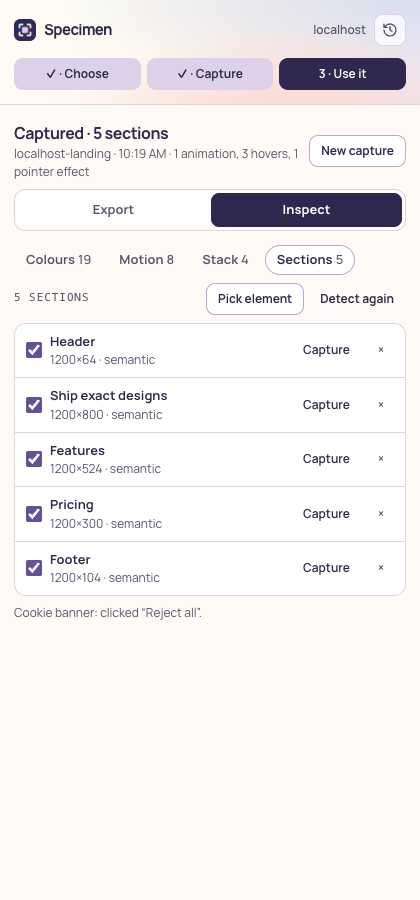
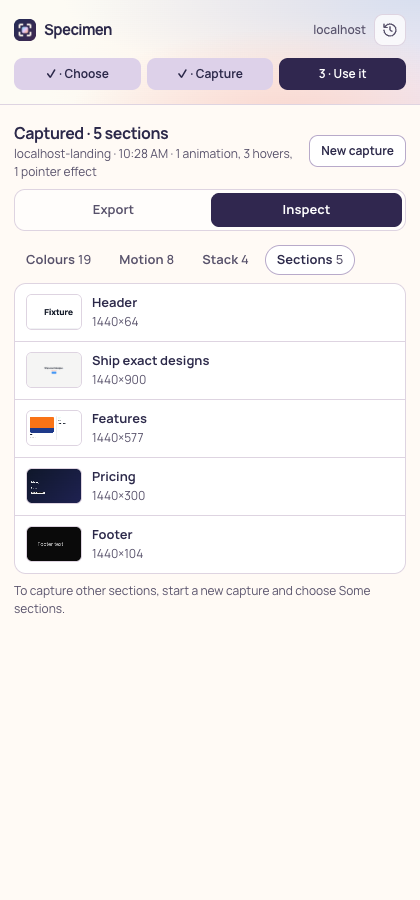
Scope Copy everything to the chosen sections; list a capture's own sections
Copy everything for a code agent now follows Which part, like the prompt and
folder exports. The Sections tab of a capture lists the sections that capture
holds instead of the live page's scan.

diff --git a/apps/extension/lib/outputs.ts b/apps/extension/lib/outputs.ts
@@ -355,17 +355,20 @@ export async function writeToFolder(files: Record<string, Uint8Array>, folder = 
 // ---------------------------------------------------------------------------------------------
 // Copy as text
 
-/** The motion of the captured sections as markdown: cues per section, then the rebuilt effect code. */
-export function motionMarkdown(result: CaptureResult): string {
+/** The captured sections, or only `ids` of them. */
+const chosenSections = (result: CaptureResult, ids?: string[]) => capturedSections(result).filter((s) => !ids || ids.includes(s.id));
+
+/** The motion of the captured sections (or `ids`) as markdown: cues per section, then the rebuilt effect code. */
+export function motionMarkdown(result: CaptureResult, ids?: string[]): string {
   const parts: string[] = ['## Motion', ''];
-  for (const s of capturedSections(result)) {
+  for (const s of chosenSections(result, ids)) {
     const cues = motionCues(result, s.id);
     if (!cues.length) continue;
     parts.push(`### ${s.name}`, '', ...cues.map((c) => `- **${c.kind}** \`${c.target}\`: ${c.description}`), '');
   }
   if (parts.length === 2) parts.push(result.manifest.motion ? 'No motion found in these sections.' : 'Motion was not recorded for this capture.', '');
   const code = Object.keys(result.files)
-    .filter((p) => p.startsWith('exports/code/') && /\.(css|gsap\.js|motion\.tsx)$/.test(p))
+    .filter((p) => p.startsWith('exports/code/') && /\.(css|gsap\.js|motion\.tsx)$/.test(p) && (!ids || ids.some((id) => p.startsWith(`exports/code/${id}.`))))
     .sort();
   if (code.length) {
     parts.push('## Effect code', '');
@@ -385,19 +388,19 @@ export function stackMarkdown(stack: StackItem[]): string {
  * DESIGN.md (palette, type, spacing, every section and its motion cues) followed by the stack and
  * the rebuilt effect code. Screenshots and clips stay files: the clipboard carries text.
  */
-export async function everythingMarkdown(result: CaptureResult, stack: StackItem[]): Promise<string> {
-  const spec = await agentSpec(result, stack);
-  return [spec.markdown.trim(), '', stackMarkdown(stack), motionMarkdown(result), shaderMarkdown(result)].join('\n');
+export async function everythingMarkdown(result: CaptureResult, stack: StackItem[], ids?: string[]): Promise<string> {
+  const spec = await agentSpec(result, stack, ids);
+  return [spec.markdown.trim(), '', stackMarkdown(stack), motionMarkdown(result, ids), shaderMarkdown(result, ids)].join('\n');
 }
 
 /** Pasted shader code stops here; the rest is in the saved spec folder. */
 const MAX_PASTED_SHADER_CHARS = 300_000;
 
-/** The captured sections' shader code as markdown code blocks. */
-export function shaderMarkdown(result: CaptureResult): string {
+/** The captured sections' (or `ids`') shader code as markdown code blocks. */
+export function shaderMarkdown(result: CaptureResult, ids?: string[]): string {
   const parts: string[] = [];
   let budget = MAX_PASTED_SHADER_CHARS;
-  for (const s of capturedSections(result)) {
+  for (const s of chosenSections(result, ids)) {
     for (const sh of sectionShaders(result, s.id).shaders) {
       const code = strFromU8(result.files[sh.source]);
       if (code.length > budget) {

diff --git a/apps/extension/entrypoints/sidepanel/App.tsx b/apps/extension/entrypoints/sidepanel/App.tsx
@@ -460,7 +460,6 @@ export function App() {
             onNew={() => setView('choose')}
             onError={setError}
             onHighlight={(sel) => highlight(sel ? ({ selector: sel, name: '' } as Section) : null)}
-            sections={sectionsView}
             recordRow={recordRow('Missed an effect?')}
             recordings={recordings.map((item) => (
               <RecordingCard key={item.key} item={item} onRemove={() => setRecordings((l) => l.filter((r) => r.key !== item.key))} onError={setError} />
@@ -731,7 +730,6 @@ function ResultsView(props: {
   onNew: () => void;
   onError: (message: string | null) => void;
   onHighlight: (selector: string | null) => void;
-  sections: React.ReactNode;
   recordRow: React.ReactNode;
   recordings: React.ReactNode[];
 }) {
@@ -802,7 +800,7 @@ function ResultsView(props: {
                 <StackView stack={item.analysis.stack} />
               </>
             )}
-            {inspect === 'sections' && (props.sections ?? <p className="muted">Scan the page to list its sections.</p>)}
+            {inspect === 'sections' && <CapturedSectionsView item={item} />}
           </div>
         )}
       </div>
@@ -890,6 +888,34 @@ function MotionTab({ item, onError, recordRow, recordings }: { item: CaptureItem
       </ul>
       {recordRow}
       {recordings}
+    </>
+  );
+}
+
+/** The sections this capture holds, from its own bundle; changing what to capture lives in Choose. */
+function CapturedSectionsView({ item }: { item: CaptureItem }) {
+  const sections = capturedSections(item.result);
+  const thumbs = useImageUrls(item.result.files, sections.map((s) => s.shot));
+  return (
+    <>
+      <ul className="list">
+        {sections.map((s) => (
+          <li key={s.id} className="history-item">
+            <img src={thumbs[s.shot]} alt="" />
+            <span className="grow">
+              <span className="name" style={{ display: 'block' }}>
+                {s.name}
+              </span>
+              <span className="muted small">
+                {s.width}×{s.height}
+              </span>
+            </span>
+          </li>
+        ))}
+      </ul>
+      <p className="muted small" style={{ margin: 0 }}>
+        To capture other sections, start a new capture and choose Some sections.
+      </p>
     </>
   );
 }

diff --git a/tests/e2e/panel-flow.spec.ts b/tests/e2e/panel-flow.spec.ts
@@ -7,6 +7,7 @@ test('the panel walks through Choose, Capturing with a live preview, and Use it'
   test.setTimeout(240_000);
   const { context, extensionId } = await launchWithExtension();
   try {
+    await context.grantPermissions(['clipboard-read', 'clipboard-write']);
     const { panel } = await openSiteAndPanel(context, extensionId, 'http://localhost:4321/landing.html');
     await panel.setViewportSize({ width: 420, height: 900 });
 
@@ -42,12 +43,23 @@ test('the panel walks through Choose, Capturing with a live preview, and Use it'
     await panel.getByRole('button', { name: 'Code agent' }).click();
     await expect(panel.getByText(/^DESIGN\.md for Claude Code/)).toBeVisible({ timeout: 30_000 });
     await panel.screenshot(shot('3-export-agent'));
+    // Copy everything follows Which part: one section chosen, only that section goes to the agent.
+    await panel.getByRole('option', { name: 'Features' }).click();
+    await panel.getByRole('button', { name: 'Copy everything' }).click();
+    await expect(panel.getByRole('button', { name: 'Copied' })).toBeVisible({ timeout: 30_000 });
+    const md = await panel.evaluate(() => navigator.clipboard.readText());
+    expect(md).toContain('### 1. Features');
+    expect(md).not.toContain('Pricing');
+    await panel.getByRole('option', { name: /^All \d+$/ }).click();
     await panel.getByRole('button', { name: 'Other' }).click();
     await panel.screenshot(shot('3-export-other'));
     for (const tab of ['Colours', 'Motion', 'Stack', 'Sections'] as const) {
       await inspect(panel, tab);
       await panel.screenshot({ ...shot(`4-inspect-${tab.toLowerCase()}`), fullPage: true });
     }
+    // Sections lists this capture's own sections, not the live page's, with nothing to recapture there.
+    await expect(panel.locator('.result .history-item')).toHaveCount(5);
+    await expect(panel.locator('.result').getByRole('button', { name: 'Capture', exact: true })).toHaveCount(0);
 
     // History lists the capture and opens it again.
     await panel.getByRole('button', { name: 'History: earlier captures' }).click();

diff --git a/apps/extension/entrypoints/sidepanel/Captures.tsx b/apps/extension/entrypoints/sidepanel/Captures.tsx
@@ -236,7 +236,7 @@ export function ExportView({ item, onError }: { item: CaptureItem; onError: (mes
             className="primary"
             label="Copy everything"
             title="DESIGN.md, palette, stack, motion and effect code as one markdown document"
-            text={() => everythingMarkdown(result, item.stack)}
+            text={() => everythingMarkdown(result, item.stack, ids)}
             onError={onError}
           />
           {spec ? (
